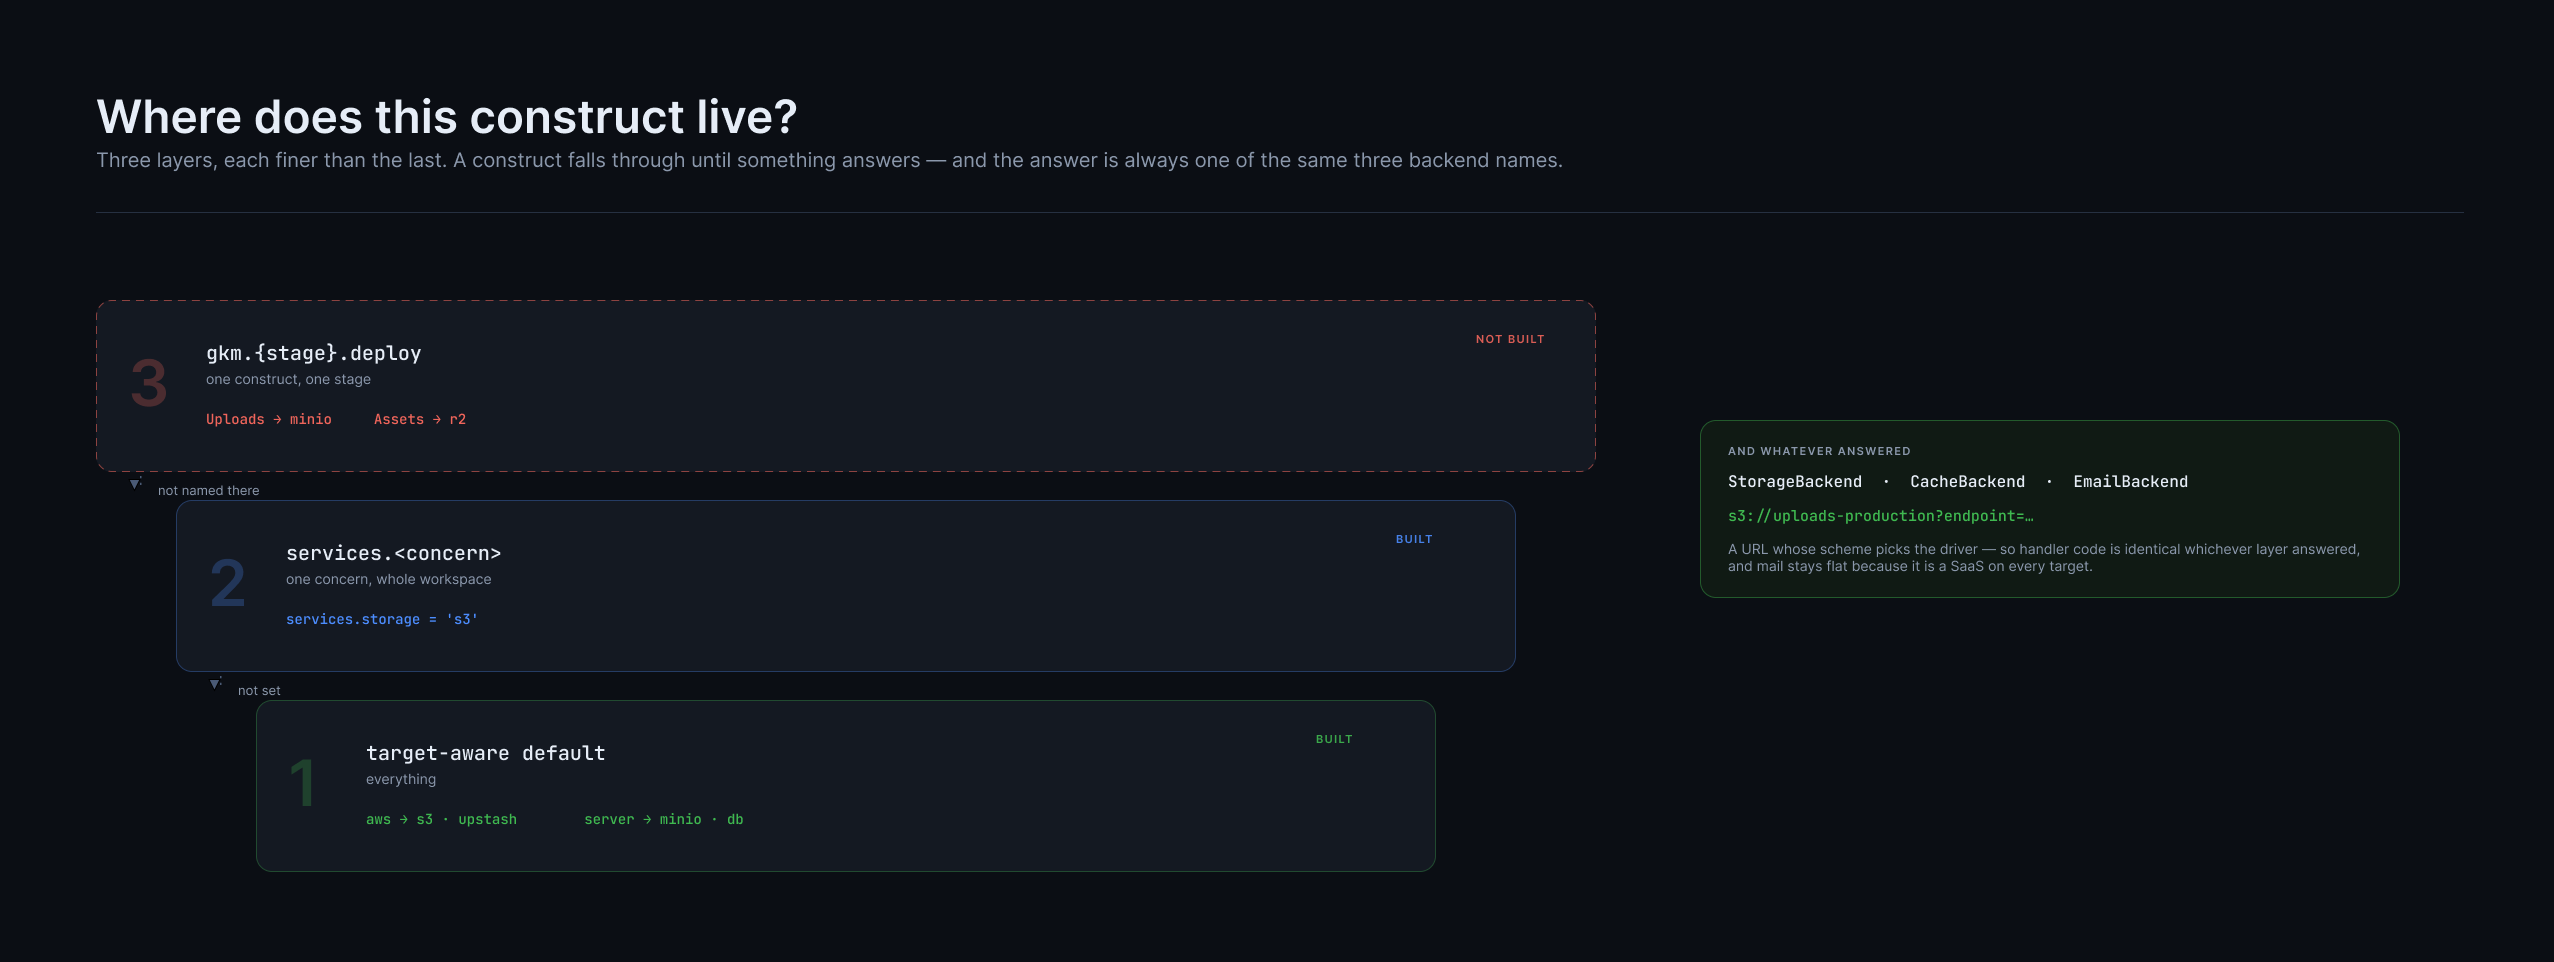
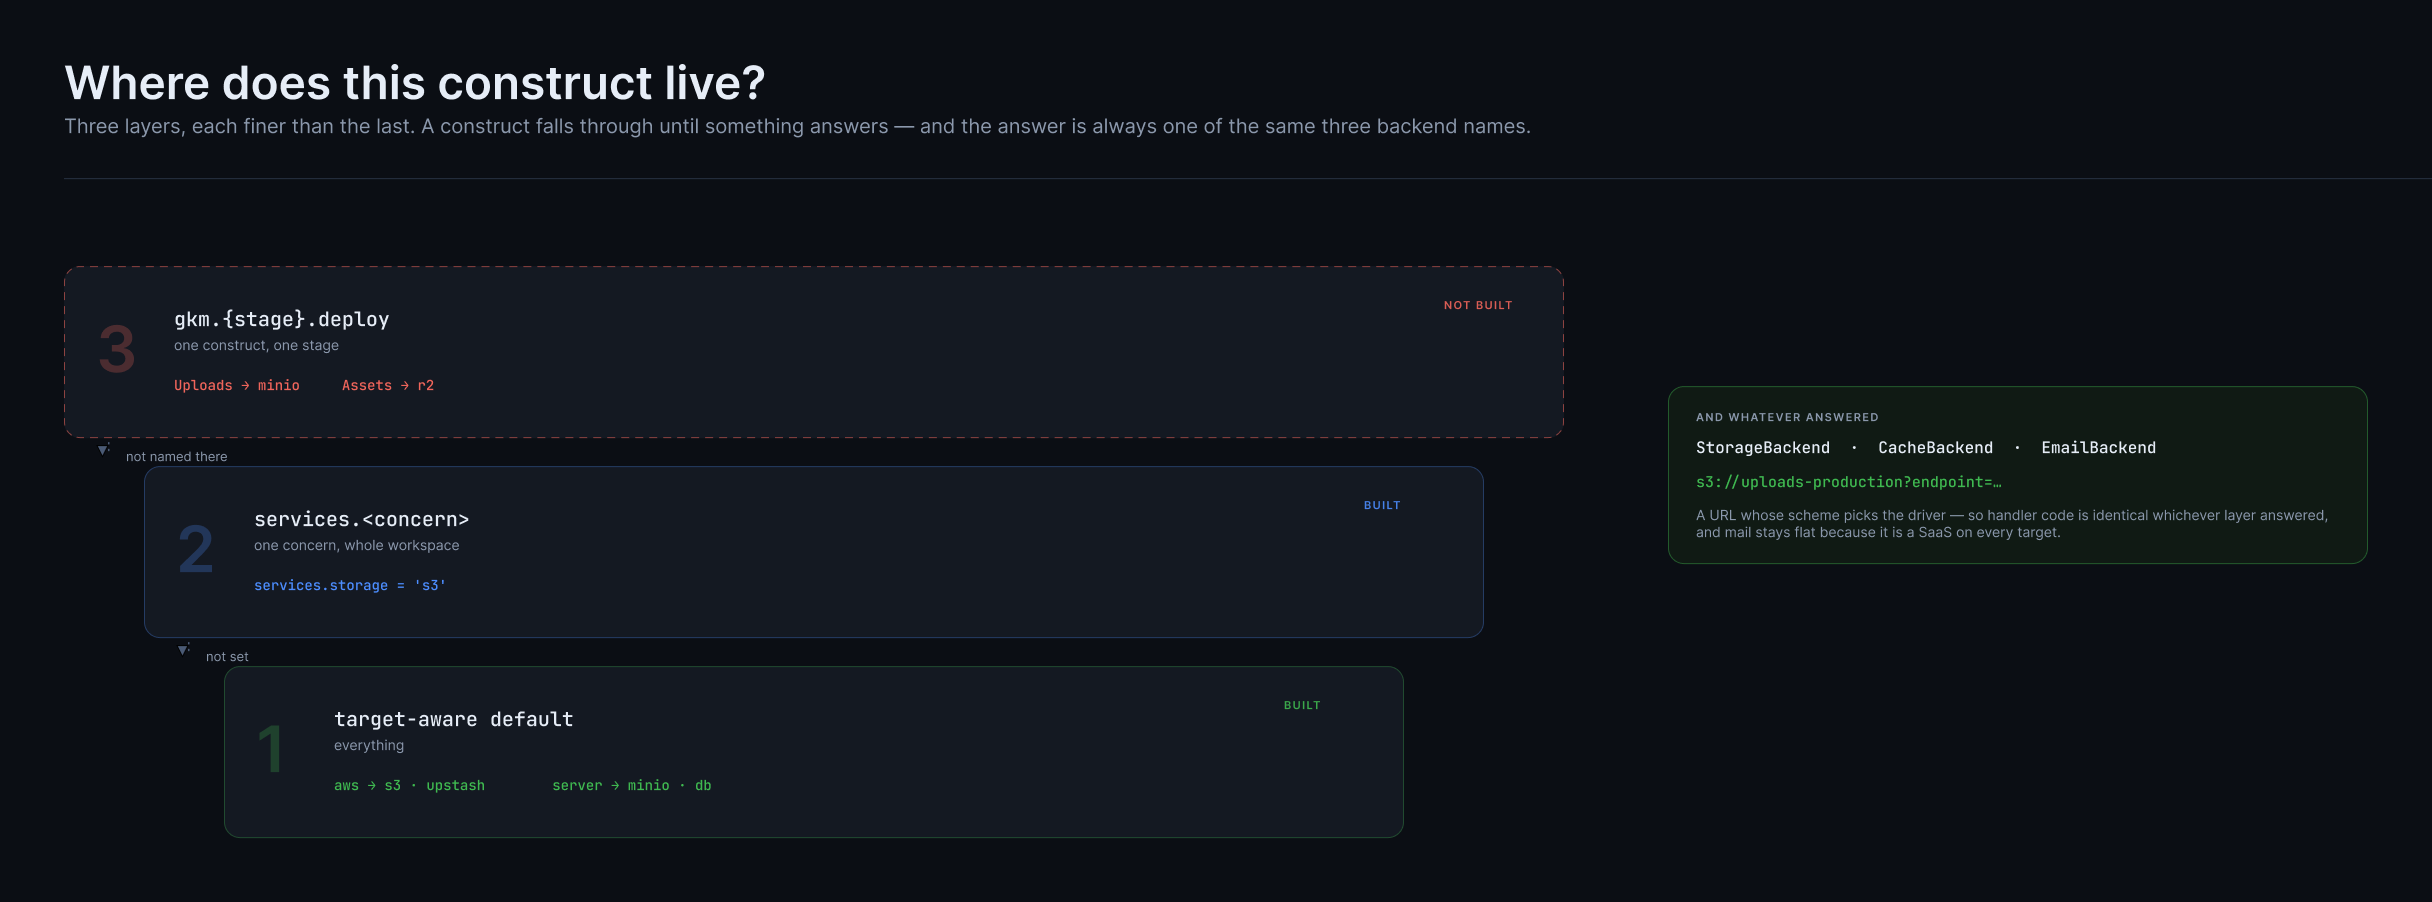
docs: label the diagrams with hostnames, and give naming its own page
The diagrams were captioned `production-kitchen-sink-api` — what Dokploy calls
the row in its own table, which is the least useful thing to show someone
learning the model. They now say `api.example.com`, `example.com`, `the app
database`, `the uploads bucket`: what you would actually visit or point at.

The derivation those names came from is worth explaining, just not inside a
picture about something else. `/guide/naming` covers it: one rule across
providers, the casing table, where it deliberately differs (Postgres
identifiers are snake_case, buckets are DNS labels, roles carry the stage
because they are cluster-scoped), why an image is not scoped, and that hostnames
are the one part that is config rather than derivation.

It also states the thing that bites: a construct id *is* a physical name, so
renaming one renames the service and the data does not follow. Moving a
construct between files is safe; renaming it is a migration.

The background glow is gone from the first diagram. It was a radial fade behind
the middle, and it had now twice been the thing sizing the frame — a gradient
ending in nothing is indistinguishable from blank canvas, which was the
complaint. Every frame is refitted to its painted pixels with even padding,
which also required ignoring the eight 1x1 connector wrappers sitting at the
origin: their boxes are meaningless and were pinning every measurement to (0,0).

Claude-Session: https://claude.ai/code/session_01H5B5KrNybuLWDWYvbh9vkZ

diff --git a/apps/docs/.vitepress/config.ts b/apps/docs/.vitepress/config.ts
@@ -38,6 +38,7 @@ export default defineConfig({
         items: [
           { text: 'Getting Started', link: '/guide/getting-started' },
           { text: 'Architecture', link: '/guide/architecture' },
+          { text: 'Naming', link: '/guide/naming' },
           { text: 'Constructs Paradigm (RFC)', link: '/guide/constructs-paradigm' },
           { text: 'What Is Outstanding', link: '/guide/constructs-outstanding' },
           { text: 'Deploy Walkthrough (RFC)', link: '/guide/deploy-walkthrough' },

diff --git a/apps/docs/guide/naming.md b/apps/docs/guide/naming.md
@@ -1,0 +1,95 @@
+# Naming
+
+Every physical name a deploy creates is derived from two things: the **construct
+id** you wrote, and the **stage** you deployed to. Nothing is typed twice, and
+nothing differs between providers.
+
+## One rule, every provider
+
+```
+{stage}-{name}-{construct id}
+```
+
+`name` is the `name` in your gkm config — the same statement `sst.config.ts`
+makes. So a `KyselyDatabase('Database')` in the `production` stage of an app
+called `kitchen-sink` is:
+
+```
+production-kitchen-sink-database
+```
+
+on Dokploy **and** on AWS. It is literally the same function: `cloudName` in
+`@geekmidas/manifest`, which the SST target re-exports as `prefixedName` rather
+than reimplementing.
+
+::: tip Why that matters more than it looks
+These were once two implementations of "the same" rule. They agreed on every id
+anybody had tried, and disagreed the moment one carried a digit beside a letter —
+`S3Bucket` became `s-3-bucket` on one provider and `s3-bucket` on the other, for
+the same construct. A name you cannot read across providers is not a name.
+:::
+
+## Casing
+
+Ids are kebab-cased, acronym- and digit-aware:
+
+| construct id | physical name |
+|---|---|
+| `Database` | `production-acme-database` |
+| `AuthDb` | `production-acme-auth-db` |
+| `APIKey` | `production-acme-api-key` |
+| `S3Bucket` | `production-acme-s3-bucket` |
+| `UserUploads` | `production-acme-user-uploads` |
+
+The prefix is idempotent: an id that already carries the scope is not given a
+second one, so composing names cannot double up.
+
+## Where the rule differs, and why
+
+**Postgres identifiers are snake_case**, because every identifier touching a
+database is — so the *database* is `database_production` while the *service* it
+lives in is `production-acme-database`. Two names, deliberately: one is what
+Postgres calls it, the other is what the provider calls it.
+
+**Buckets are DNS labels**, so they take the hostname rule rather than the
+Postgres one: `uploads-production`, never `uploads_production`.
+
+**Roles are cluster-scoped**, which is why they carry the stage even when the
+database already does — two stages sharing one cluster cannot share a
+credential.
+
+## Images are not scoped
+
+A Docker image keeps the project's plain name:
+
+```
+ghcr.io/acme/kitchen-sink:production-2026-09-06T10-39-02
+```
+
+One image is deployed to several stages, the registry path already scopes it,
+and it is what somebody types after `docker pull`. The *tag* carries the stage;
+the name does not.
+
+## Hostnames are the exception
+
+Everything above is structural — it does not vary by stage. A hostname does, so
+it is config rather than derivation:
+
+- the site holding the base domain gets `domains[stage]` — `example.com`
+- everything else gets `{name}.{base}` — `api.example.com`, `admin.example.com`
+- `app.domain` overrides either, per stage
+
+Which site holds the base domain is itself declared, not guessed. One site is
+the root because it is the only one; a site named `web` wins by convention; past
+that a site says `root: true` and anything else is an error rather than a coin
+toss.
+
+## Renaming
+
+**A construct id is a physical name.** Renaming `Database` to `Orders` renames
+the Postgres service, which means a new empty one — the old data does not
+follow. Treat a construct id the way you would treat a table name in a
+migration.
+
+Moving a construct between files or apps is safe: identity is the id, and the
+scope is the workspace, so neither changes.

diff --git a/apps/docs/guide/architecture.md b/apps/docs/guide/architecture.md
@@ -14,7 +14,11 @@ once changes it in all five.
 ![One declaration, the manifest it becomes, and what a target builds](/architecture/constructs-pipeline.png)
 
 A declaration on the left. The manifest — ids, kinds, and the edges between them
-— in the middle. On the right, what a real Dokploy deploy built from it.
+— in the middle. On the right, what a target builds from it.
+
+The boxes are labelled with the hostnames you would actually visit. The physical
+names underneath them are derived from the construct id and the stage, and that
+rule has [its own page](/guide/naming).
 
 ## A surface is a server
 
